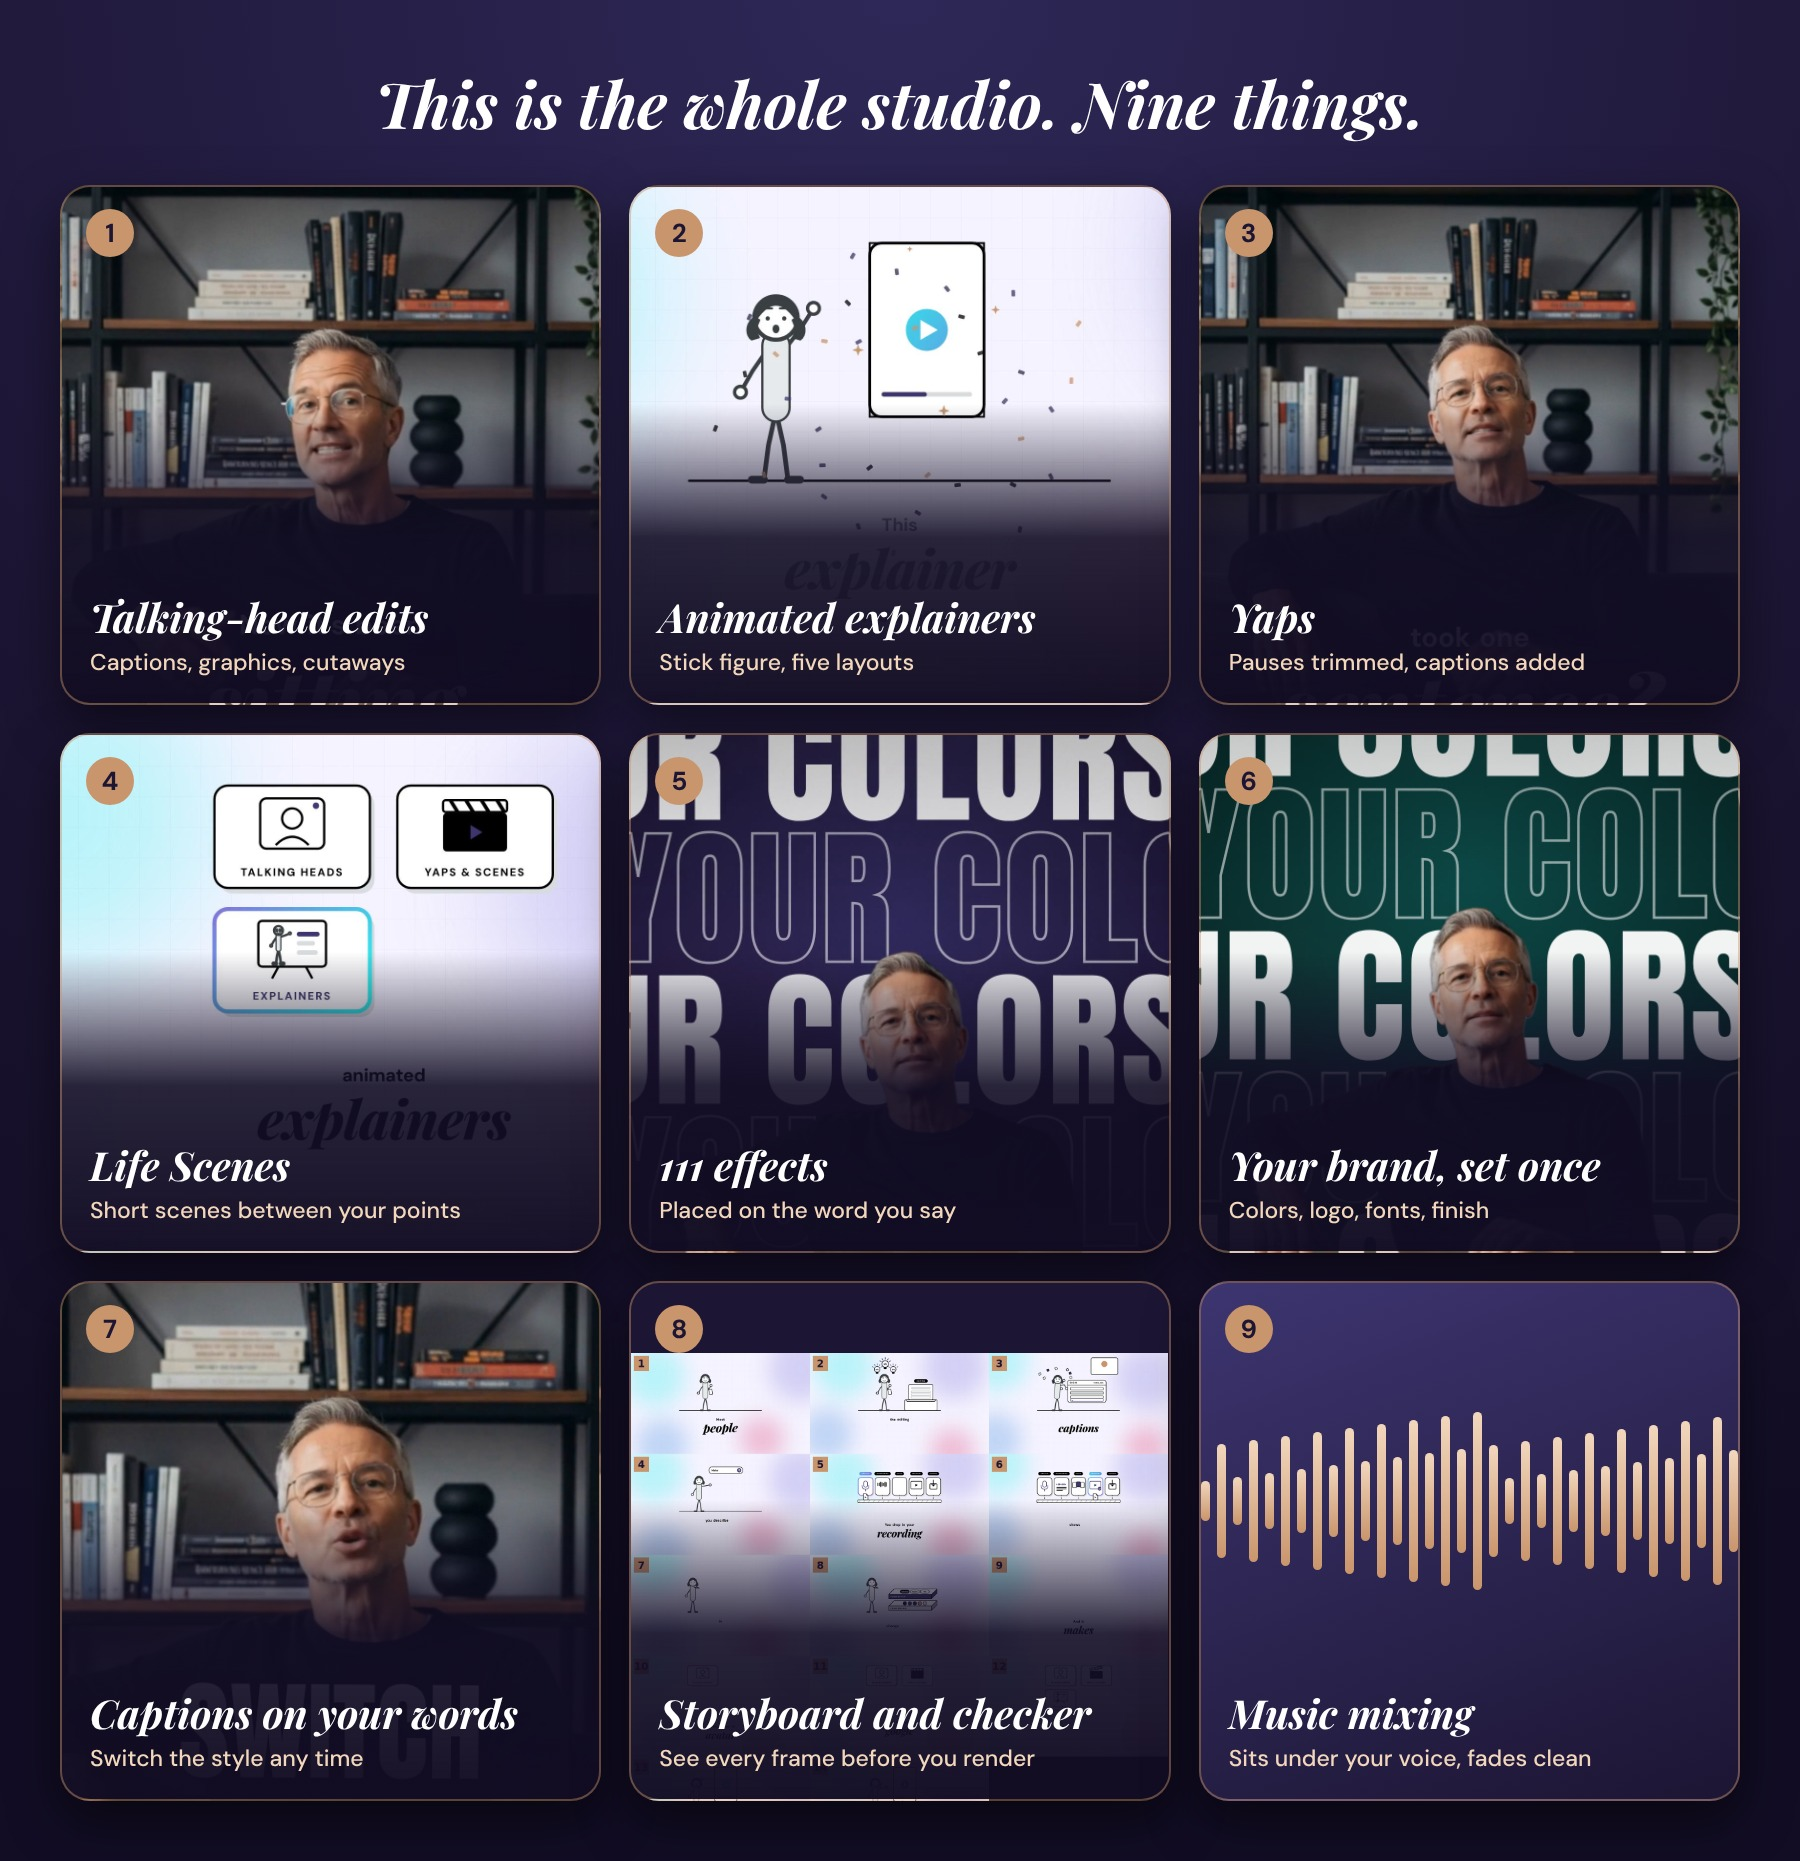
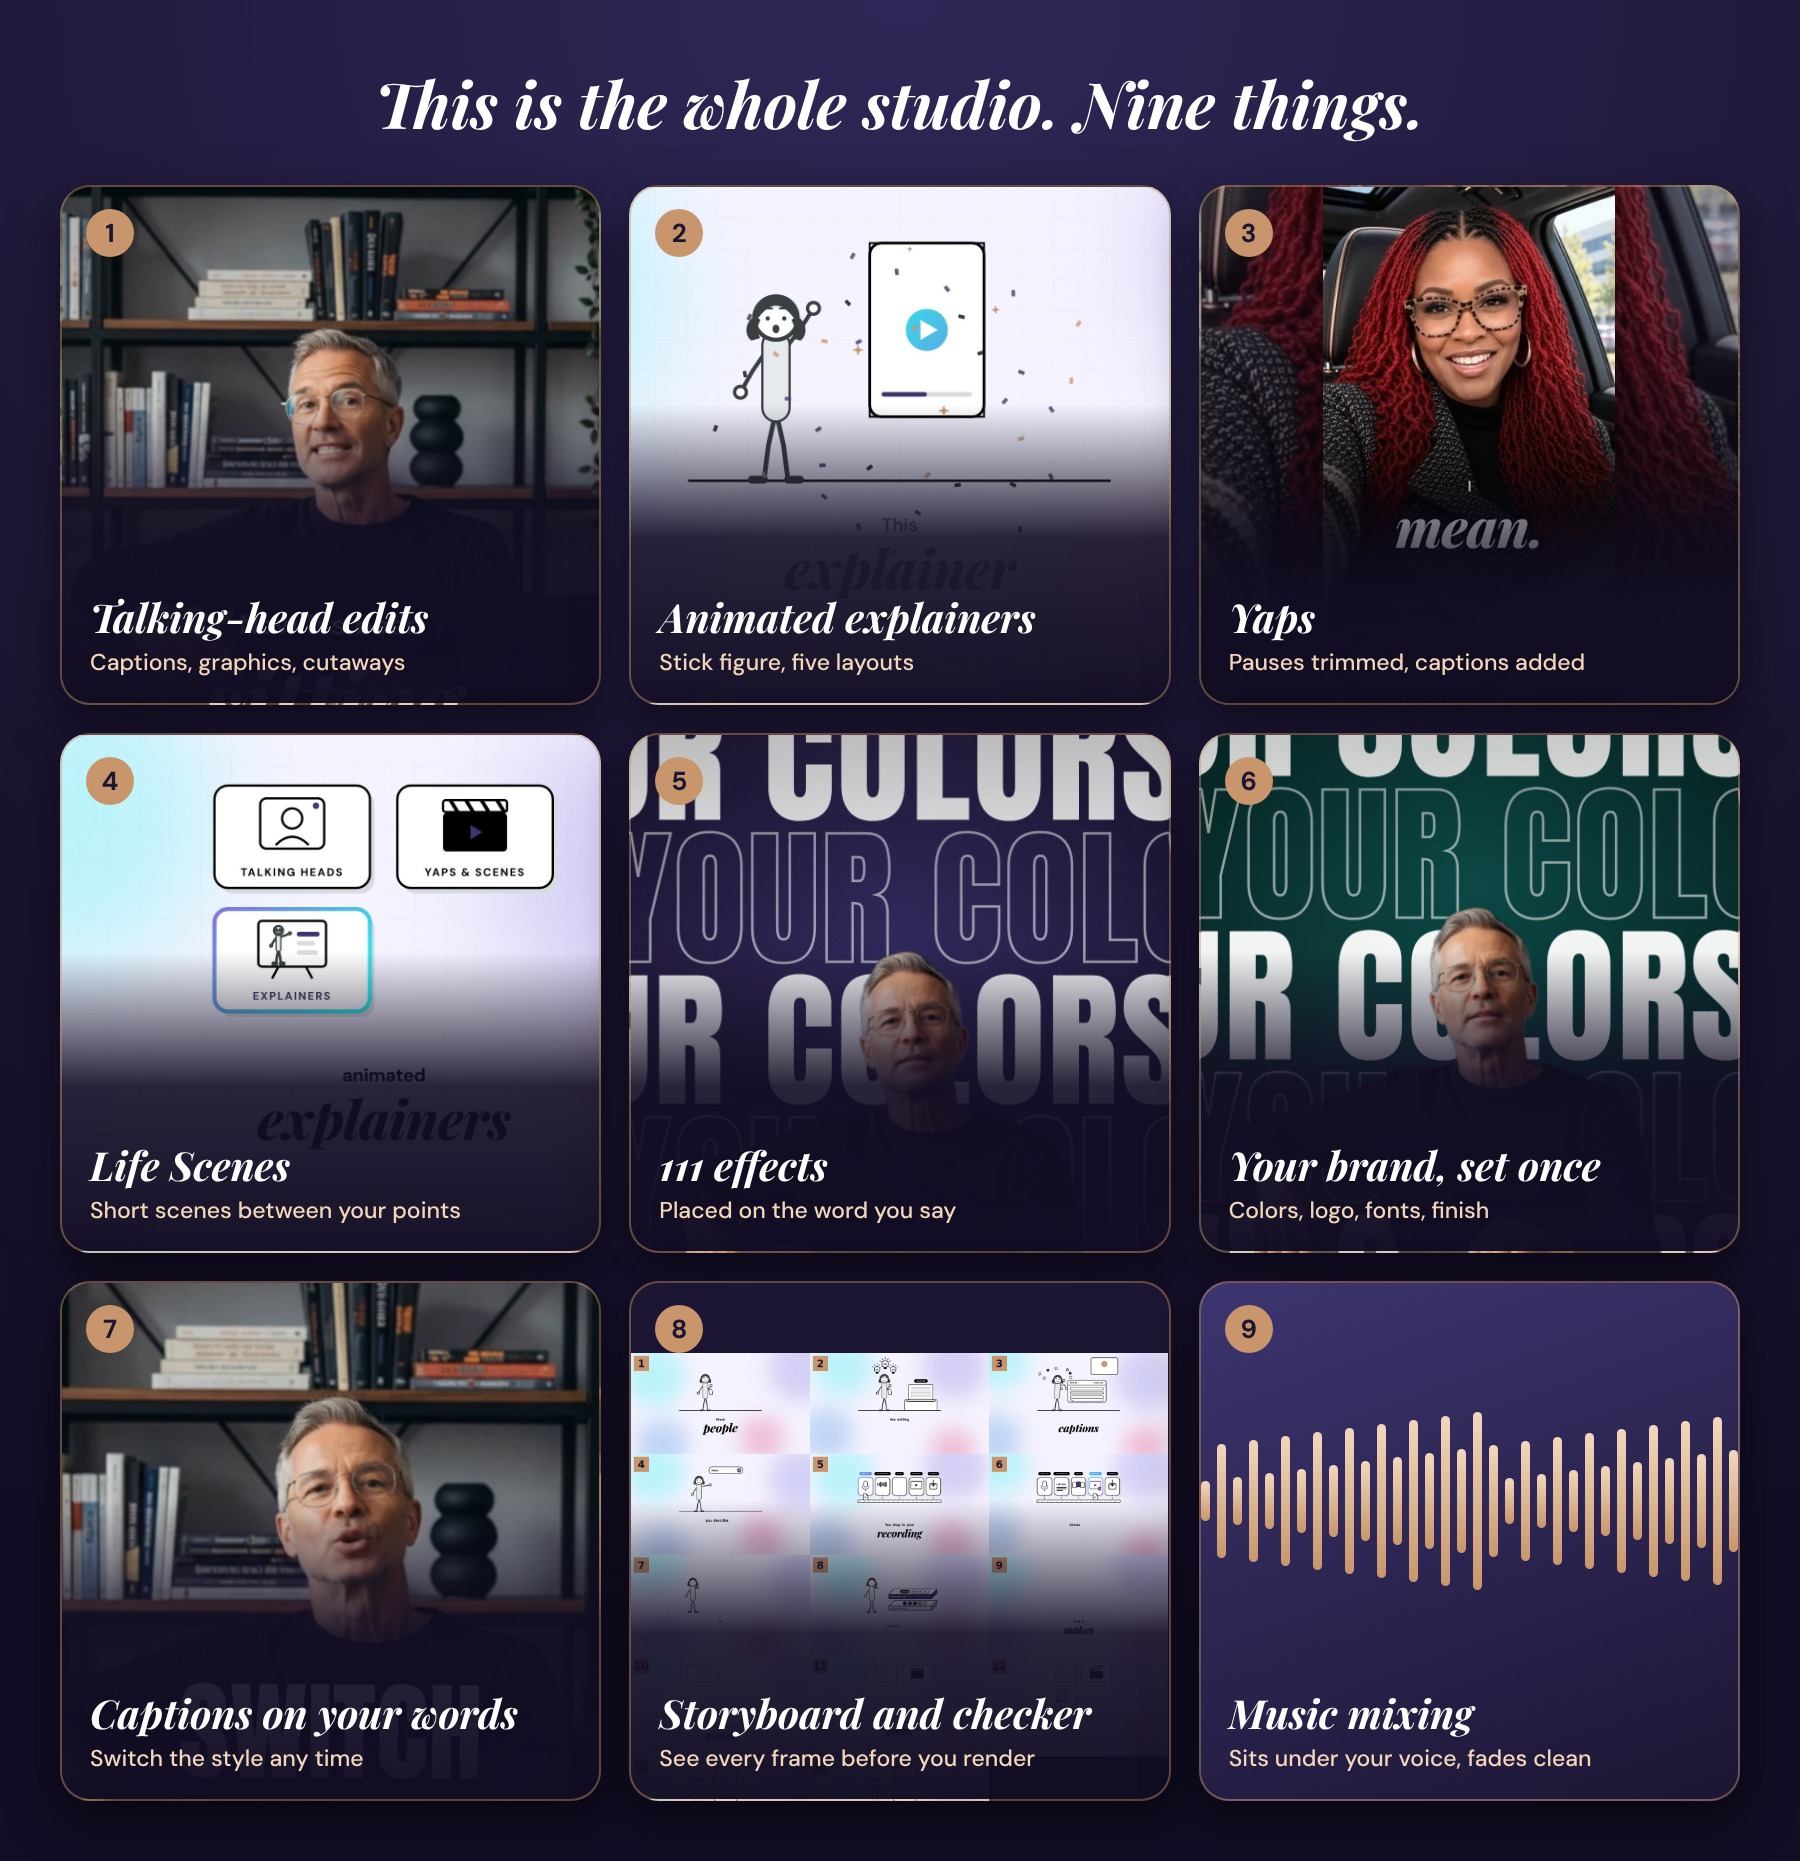
Add frames from the creator's own videos to the sales page assets
Claude-Session: https://claude.ai/code/session_01Qh1ng1UAjwWsp9ECM87L7u

Changed region(s): [[0.6533, 0.0935, 0.9644, 0.3117]]

diff --git a/faceless48-beta/SALES-PAGE-UPSELL-2.md b/faceless48-beta/SALES-PAGE-UPSELL-2.md
@@ -65,6 +65,8 @@ Plus batch rendering, to make several videos in one go.
 
 ## 5. SEE WHAT IT MAKES
 
+**[IMAGE]** After the two demos, add `stills/own-videos-board.jpg` under the line "From my own videos." These frames come from Dr. CK's own channel and the editing system this plug-in grew from, so the caption says "edited with this editing system," not "made with the beta plug-in." Keep that wording.
+
 Both of these videos were produced with this plug-in.
 
 **[VIDEO]** Talking head, vertical, 63 seconds. Caption: *Kinetic captions, graphics timed to the spoken words, cutaways, and the speaker placed in front of the graphics.*
@@ -279,6 +281,7 @@ All files are in `faceless48-beta/sales-page-assets/`. Every frame comes from yo
 | Formats | `stills/formats.jpg` |
 | Explainer frames | `stills/explainer-widescreen-a/b/c.jpg` |
 | Effect loops | `clips/effect-type-wall.mp4`, `effect-checklist.mp4`, `effect-clones.mp4`, `effect-statement-card.mp4` |
+| From my own videos | `stills/own-videos-board.jpg` (single frames in `stills/own/`, including the in-car yap and the card flip), `stills/own/explainer-strip-own-character.png` |
 | Storyboard sheets | `stills/storyboard-sheet-talking-head.jpg`, `stills/storyboard-sheet-explainer.jpg` |
 | Guarantee seal | `stills/guarantee-seal.png` |
 | Both demo videos | Your downloaded files (not copied here, they are large) |
